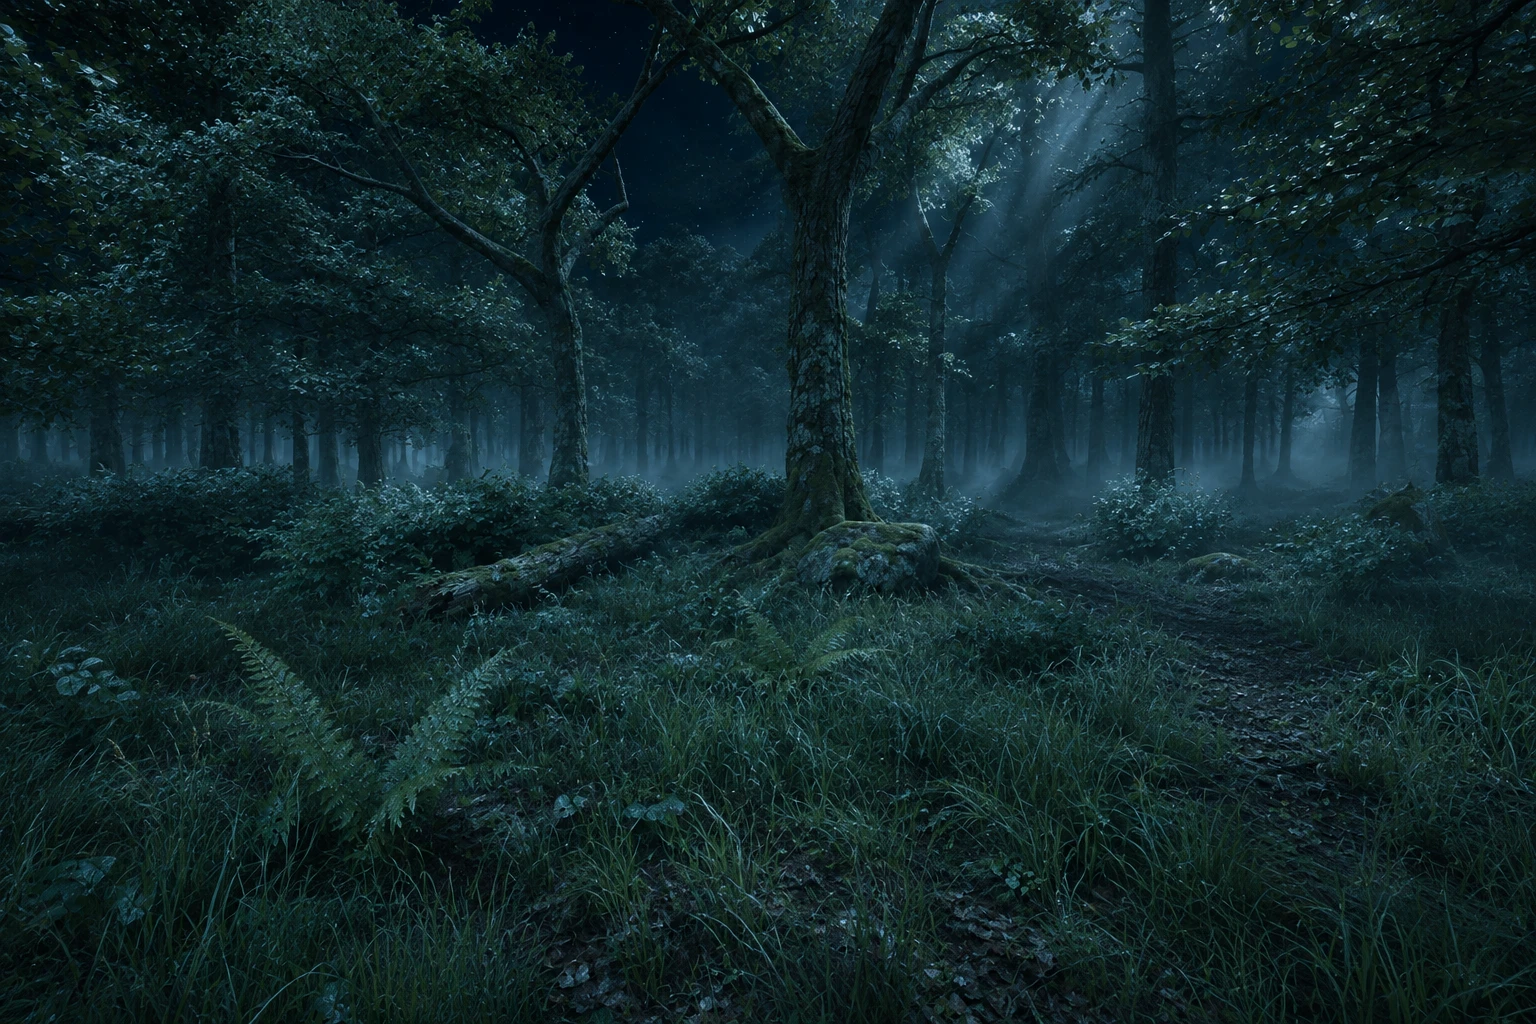
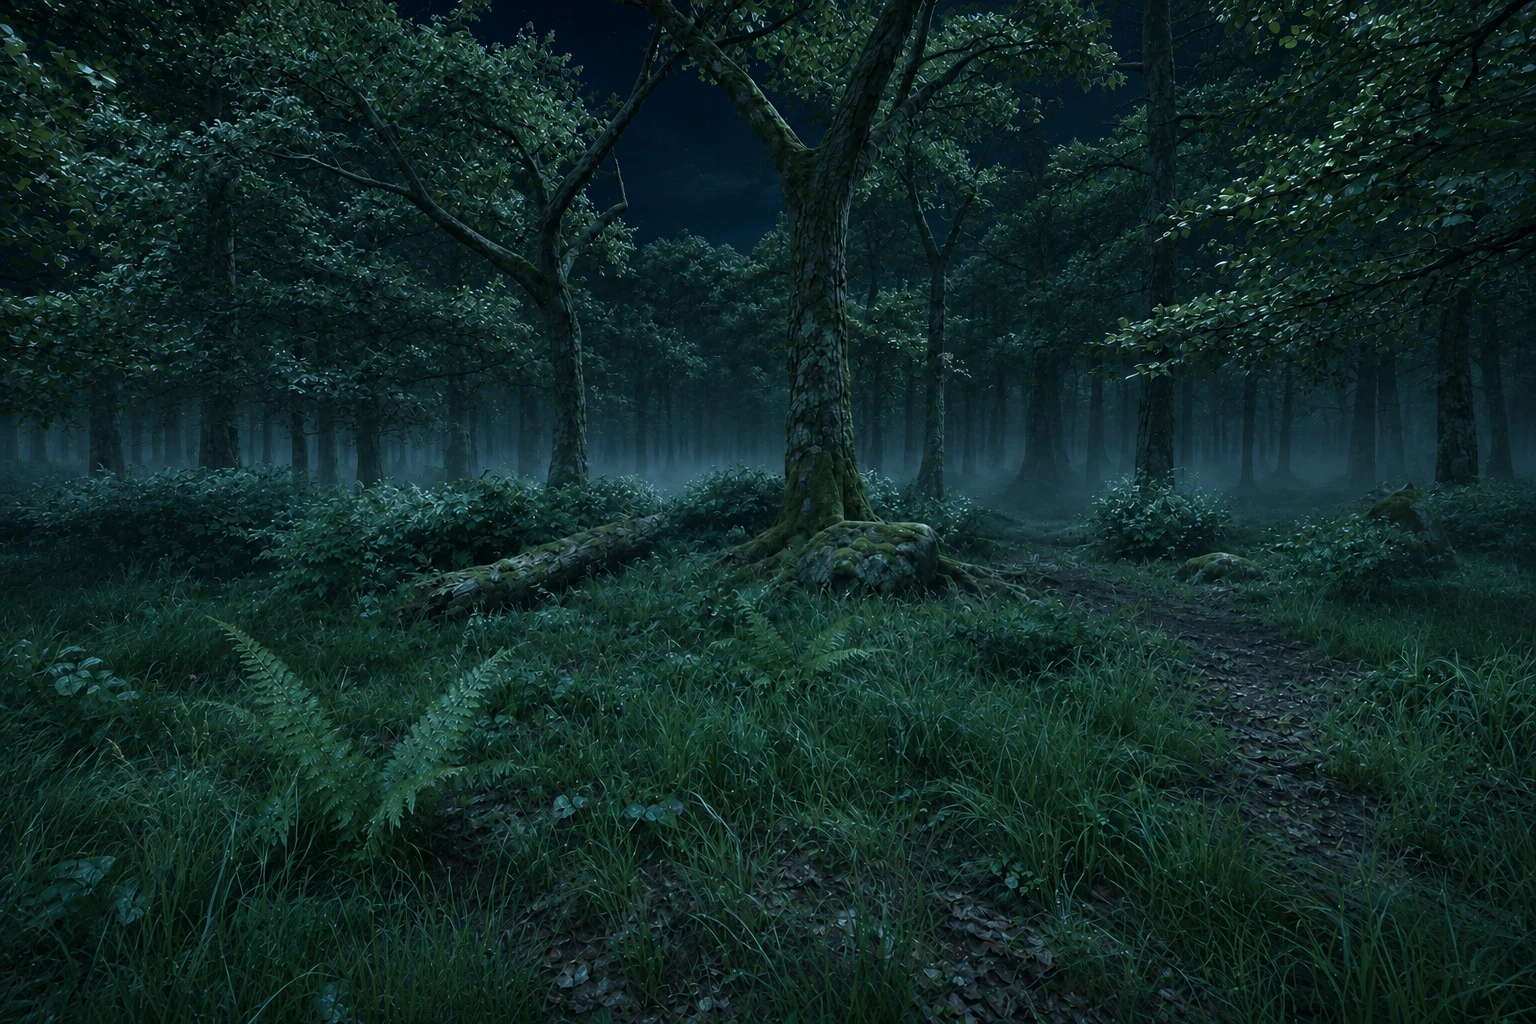
The Valkarr woods' standoff, fight and druid paintings lose their shafts of moonlight from above, retouched in place and each preferred blind over the first. The fallen ranger's painting keeps its first, which won its pair

diff --git a/lab/stage-art/README.md b/lab/stage-art/README.md
@@ -277,7 +277,8 @@ The Midnight Summons audited as played, 2026-11-23. Every shot and speaker's vie
 - Scores from one judge to the next moved more than any change did: a second judge scored even untouched views a point or more lower. So round 1 was settled blind, before against after with the sides shuffled: after won 7 of 8 pairs, the eighth a tie.
 - The porch's retouch came back crunchy, over-sharpened stone, and judged a point worse. The porch keeps its first painting. Retouches also lean painterly in bark and leaves, and the clearing's trees came back in rows with matching forks: paint it again.
 - Mist banks drift (`mist` in `materials/surfaces.ts`): their thickness follows a slow cloud noise in world space that moves with time, so fog slides over the still paint. The stones have mist lying on the river and standing along the far bank. Subtle by design: about 0.4% of the river view's pixels change by more than 6 levels in 6 seconds.
-- Not yet retouched, the image tool at its limit: `fallen`, `standoff`, `fight` and `druid` (lighter beams), and `home`, `home-2` and `porch` (the bow lying like a hoop on the sill, the lantern lit by day).
+- Round 2, blind again: `standoff`, `fight` and `druid` retouched, each won clearly. `fallen` lost slightly and keeps its first painting.
+- The cottage keeps all its first paintings. Its retouches came back with crunchy stone and the lantern still lit. Left: the bow lying like a hoop on the sill, the lantern lit by day.
 
 Known limits:
 
